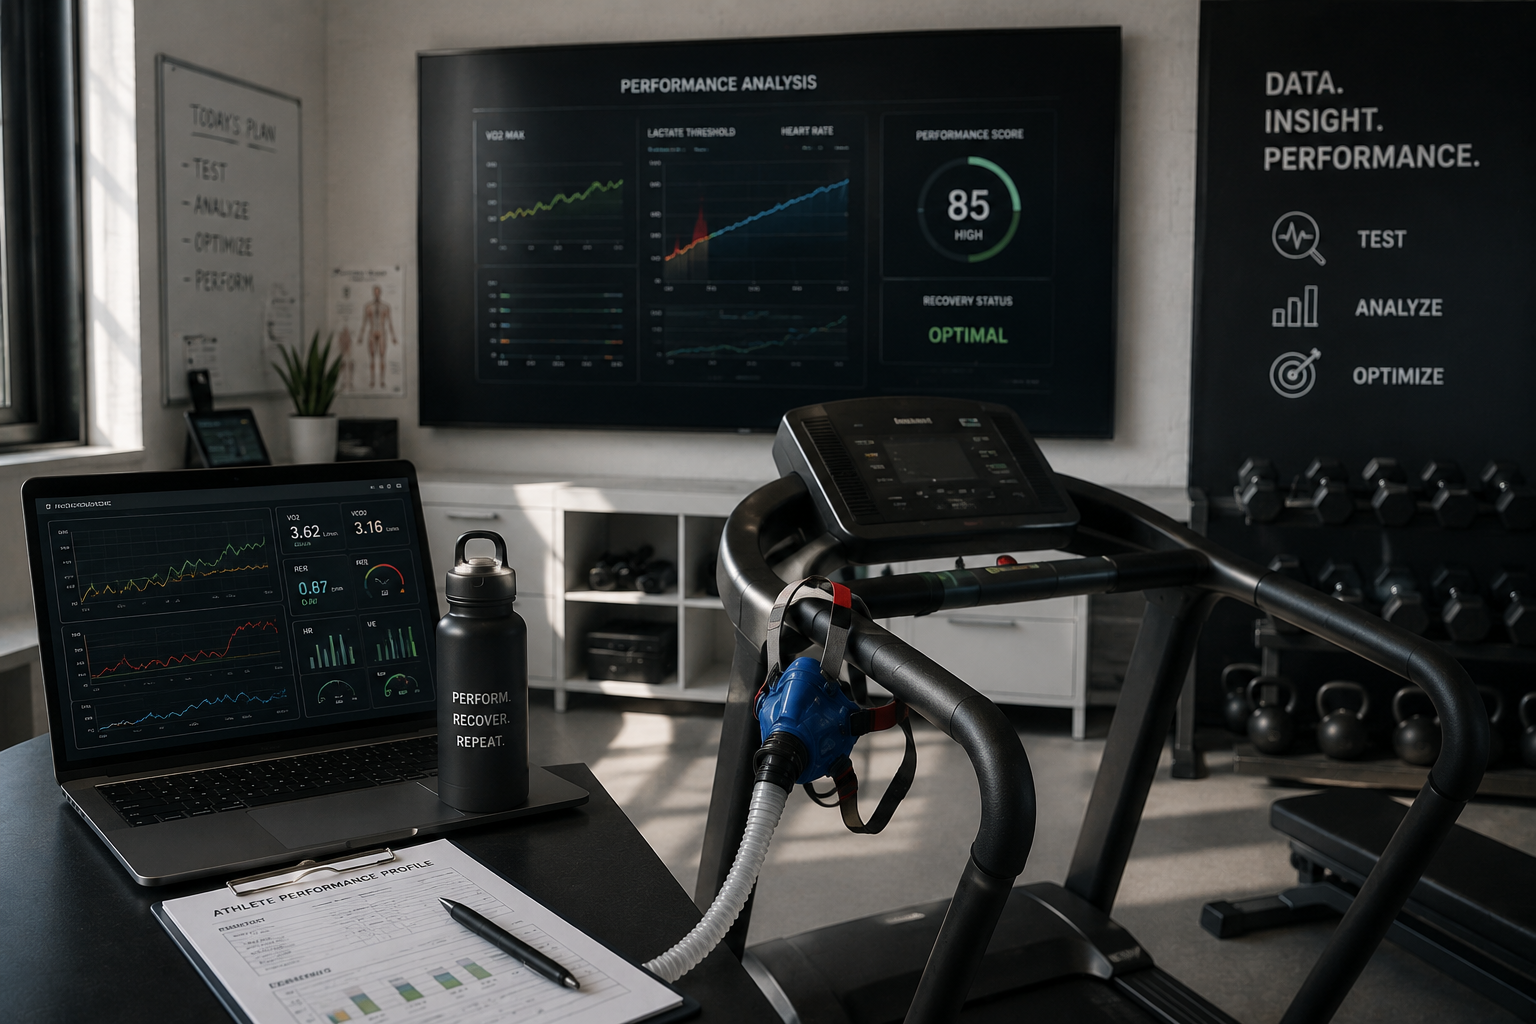
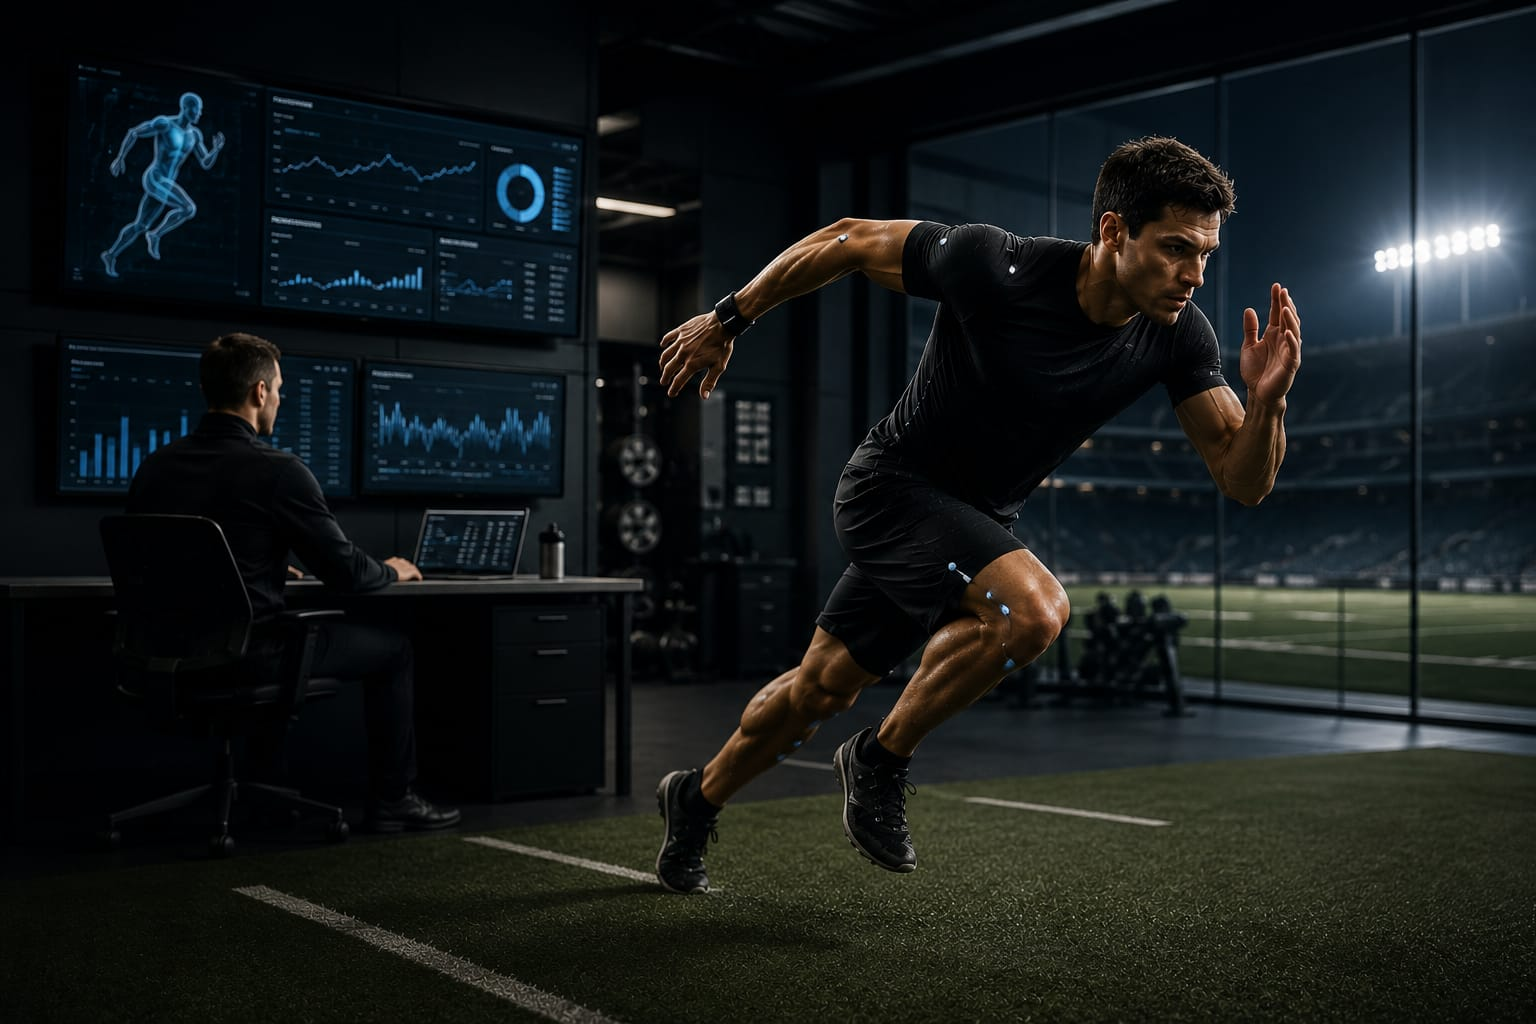
added pics

diff --git a/src/app/page.tsx b/src/app/page.tsx
@@ -13,28 +13,28 @@ const highlights = [
     title: "Performance breaks down under pressure.",
     description:
       "Most athletes and teams don't fail because of lack of effort. They fail because of hidden inefficiencies. Late-game drop-offs, recurring injuries, and inconsistent performance are not random. They are the result of unresolved gaps in how the body produces energy, generates force, and responds under fatigue.",
-    image: images.gymInterior,
+    image: "/the problem.jpeg",
   },
   {
     label: "The System",
     title: "RESET90 replaces guesswork with structure.",
     description:
       "RESET90 is built as a 90-day performance cycle that connects diagnostics, intervention, and re-measurement into one continuous system. By integrating metabolic profiling, neuromuscular analysis, and performance feedback, it identifies exactly where performance breaks down and corrects it with precision.",
-    image: images.strengthTraining,
+    image: "/the systemcard.png",
   },
   {
     label: "The Difference",
     title: "Most train harder. Few train smarter.",
     description:
       "Traditional training focuses on volume. RESET90 focuses on efficiency. Instead of adding more workload, the system targets what actually limits performance: energy inefficiency, force imbalances, and fatigue-related decline. This creates measurable improvements in availability, repeat performance, and resilience.",
-    image: images.nutrition,
+    image: "/healthtracking.png",
   },
   {
     label: "The Outcome",
     title: "Performance you can rely on.",
     description:
       "RESET90 delivers measurable, repeatable performance under real competitive demands. Athletes sustain higher output, recover faster, and maintain efficiency under fatigue. Teams operate with greater availability, reduced non-contact injuries, and consistent physical performance across the season.",
-    image: images.cardio,
+    image: "/the outcome.jpeg",
   },
 ];
 
@@ -193,7 +193,6 @@ export default function Home() {
                   </div>
                   <div className="p-4 sm:p-6 bg-[#111] flex-1">
                     <p className="text-[10px] sm:text-xs font-semibold tracking-[0.2em] uppercase text-gold mb-1.5 sm:mb-2">{item.label}</p>
-                    <h3 className="text-base sm:text-lg font-bold text-white mb-1.5 sm:mb-3 leading-snug">{item.title}</h3>
                     <p className="text-xs sm:text-sm text-white/50 leading-relaxed">{item.description}</p>
                   </div>
                 </div>

diff --git a/src/app/layout.tsx b/src/app/layout.tsx
@@ -31,7 +31,7 @@ export default function RootLayout({
   children: React.ReactNode;
 }>) {
   return (
-    <html lang="en" className="h-full antialiased">
+    <html lang="en" className="h-full antialiased" suppressHydrationWarning>
       <body className="min-h-full flex flex-col">
         <Navbar />
         <main className="flex-1">{children}</main>

diff --git a/src/app/professional/layout.tsx b/src/app/professional/layout.tsx
@@ -1,0 +1,13 @@
+import type { Metadata } from "next";
+
+export const metadata: Metadata = {
+  title: "RESET90 Professional",
+};
+
+export default function ProfessionalLayout({
+  children,
+}: {
+  children: React.ReactNode;
+}) {
+  return children;
+}

diff --git a/src/app/online/layout.tsx b/src/app/online/layout.tsx
@@ -1,0 +1,13 @@
+import type { Metadata } from "next";
+
+export const metadata: Metadata = {
+  title: "RESET90 Online Programs",
+};
+
+export default function OnlineLayout({
+  children,
+}: {
+  children: React.ReactNode;
+}) {
+  return children;
+}

diff --git a/src/app/contact/layout.tsx b/src/app/contact/layout.tsx
@@ -1,0 +1,13 @@
+import type { Metadata } from "next";
+
+export const metadata: Metadata = {
+  title: "Contact RESET90",
+};
+
+export default function ContactLayout({
+  children,
+}: {
+  children: React.ReactNode;
+}) {
+  return children;
+}

diff --git a/src/app/about/layout.tsx b/src/app/about/layout.tsx
@@ -1,0 +1,13 @@
+import type { Metadata } from "next";
+
+export const metadata: Metadata = {
+  title: "About RESET90",
+};
+
+export default function AboutLayout({
+  children,
+}: {
+  children: React.ReactNode;
+}) {
+  return children;
+}

diff --git a/src/app/faq/layout.tsx b/src/app/faq/layout.tsx
@@ -1,0 +1,13 @@
+import type { Metadata } from "next";
+
+export const metadata: Metadata = {
+  title: "RESET90 FAQ",
+};
+
+export default function FaqLayout({
+  children,
+}: {
+  children: React.ReactNode;
+}) {
+  return children;
+}
